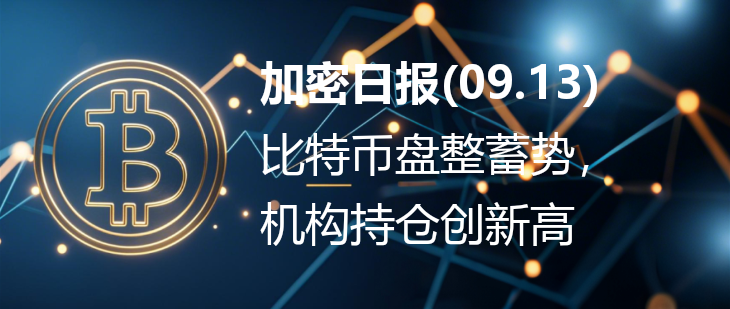
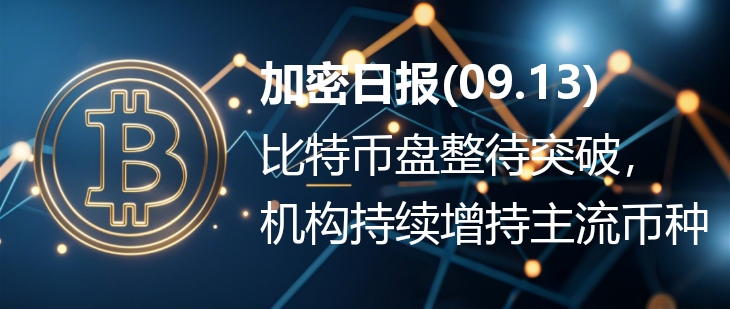
gengxin

Changed region(s): [[0.3616, 0.6408, 0.9945, 0.8155], [0.663, 0.4369, 0.874, 0.5825]]

diff --git a/send_to_weixin/to_gzh_with_pw.py b/send_to_weixin/to_gzh_with_pw.py
@@ -6,10 +6,10 @@ from dotenv import load_dotenv, find_dotenv
 
 try:
     # 当作为模块被导入时
-    from .to_gzh_with_ui import push_feishu_docs_2_wxgzh, open_edit_page_and_get_url, choose_page_cover, choose_other_options_and_preview, wait_icon_dismiss_with_prefix, open_preview_page
+    from .to_gzh_with_ui import push_feishu_docs_2_wxgzh, open_edit_page_and_get_url, choose_page_cover, choose_other_options_and_preview, wait_icon_dismiss_with_prefix, open_preview_page, delete_exit_draft
 except ImportError:
     # 当直接运行时
-    from to_gzh_with_ui import push_feishu_docs_2_wxgzh, open_edit_page_and_get_url, choose_page_cover, choose_other_options_and_preview, wait_icon_dismiss_with_prefix, open_preview_page
+    from to_gzh_with_ui import push_feishu_docs_2_wxgzh, open_edit_page_and_get_url, choose_page_cover, choose_other_options_and_preview, wait_icon_dismiss_with_prefix, open_preview_page, delete_exit_draft
     pass
 
 # 加载环境变量 - 自动查找.env文件
@@ -293,6 +293,7 @@ def send_feishu_docs_to_wxgzh(target_page_title=None, feishu_docs_url=None):
     # 主程序
     with sync_playwright() as p:
         def begin_send(context, feishu_docs_page):
+            # 通过壹伴将文档推送到公众号
             if push_feishu_docs_2_wxgzh():
                 # 切换到已登录的公众号页面，并重置到首页
                 main_page = switch_to_page_and_change_url(context, "公众号", "https://mp.weixin.qq.com/")
@@ -345,15 +346,21 @@ def send_feishu_docs_to_wxgzh(target_page_title=None, feishu_docs_url=None):
         browser = p.chromium.connect_over_cdp("http://127.0.0.1:9222")
         context = browser.contexts[0]
 
-        feishu_docs_page = active_page(context, target_page_title, feishu_docs_url, refresh=True)
-        if feishu_docs_page:
-            return begin_send(context, feishu_docs_page)
-        else:
-            if feishu_docs_url:
-                print(f"打开飞书文档页面: {feishu_docs_url}")
-                feishu_docs_page = open_new_page(context, feishu_docs_url)
+        # 切换到已登录的公众号页面，并重置到首页
+        main_page = switch_to_page_and_change_url(context, "公众号", "https://mp.weixin.qq.com/")
+        if main_page:
+            # 删除已经存在的草稿
+            if delete_exit_draft(main_page):
+                # 打开目标飞书文档
+                feishu_docs_page = active_page(context, target_page_title, feishu_docs_url, refresh=True)
                 if feishu_docs_page:
                     return begin_send(context, feishu_docs_page)
+                else:
+                    if feishu_docs_url:
+                        print(f"打开飞书文档页面: {feishu_docs_url}")
+                        feishu_docs_page = open_new_page(context, feishu_docs_url)
+                        if feishu_docs_page:
+                            return begin_send(context, feishu_docs_page)
 
 if __name__ == "__main__":
     feishu_docs_url = "https://bj058omdwg.feishu.cn/docx/NUi8dqEugoIB4xxIFjWc6uJMnSe"

diff --git a/send_to_weixin/to_gzh_with_ui.py b/send_to_weixin/to_gzh_with_ui.py
@@ -481,6 +481,33 @@ def push_feishu_docs_2_wxgzh():
                             return False
     return False
 
+def delete_exit_draft(feishu_docs_page=None):
+    # 打开微信文章编辑页面，并获得页面链接
+    if click_icon_with_prefix("wx_content_management"):
+        if click_icon_with_prefix("wx_content_draft"): # 点击后，页面的URL改变了
+            time.sleep(5)
+            feishu_docs_page.title() # 通过一个固定不变的页面来更新context内容
+            if hover_icon_with_prefix("wx_content_draft_btc_title"):
+                if click_icon_with_prefix("wx_content_delete"):
+                    if click_icon_with_prefix("wx_edit_common_deletebtn"):
+                        print("删除了已有的草稿")
+                        return True
+                    else:
+                        print("删除草稿失败")
+                        return False
+                else:
+                    print("删除草稿失败")
+                    return False
+            else:
+                print("没有找到草稿，不需要删除")
+                return True
+        else:
+            print("没有找到【草稿箱】菜单")
+            return False
+    else:
+        print("没有【内容管理】菜单")
+        return False
+
 def open_edit_page_and_get_url(feishu_docs_page=None):
     # 打开微信文章编辑页面，并获得页面链接
     if click_icon_with_prefix("wx_content_management"):
@@ -556,7 +583,7 @@ def choose_other_options_and_preview():
                 
 def open_preview_page(page = None):
     page.bring_to_front()
-    if click_icon_with_prefix("wx_content_draft_btc_zhoubao"):
+    if click_icon_with_prefix("wx_content_draft_btc_title"):
         print("打开了文章编辑页面")
         if LOCAL_DEV:
             sleep(8) # 至少进入到了新页面中

diff --git a/latest_summary.md b/latest_summary.md
@@ -1,31 +1,28 @@
-### 一、比特币价格走势及技术分析  
+### 一、比特币价格走势与技术分析  
 **总结**：  
-1. 比特币价格在114,834-116,312美元区间波动，接近115,000美元，处于盘整阶段，关键阻力位为114,000-116,000美元，支撑位在108,000美元附近，若突破阻力可能涨向123,000美元。  
-2. 技术指标显示短期存在超买（随机振荡器），长期移动平均线支撑稳固，周线图出现倒头肩形态，预示长期目标或达170,000-360,000美元。  
-3. 市场受美联储降息预期、ETF资金流动等宏观因素影响，需关注突破116,000美元的确认信号，否则可能维持区间波动。  
-
+1. 比特币价格近期在114,000美元至116,000美元区间盘整，技术指标显示短期存在超买（如随机振荡器Stoch接近93），但长期支撑稳固（如50日、100日、200日均线均呈看涨趋势），周线图出现倒头肩形态，若突破可能指向123,000美元至170,000美元目标。  
+2. 4小时图显示比特币在116,358美元附近遇阻，需确认突破以延续涨势，若未能突破，可能回调至113,500美元至114,000美元支撑位；1小时图中，114,500美元至115,000美元为日内关键反应区。  
+3. 市场关注比特币能否在强劲交易量下突破116,000美元阻力位，若突破可能冲击124,000美元，反之可能维持区间波动，需警惕美国通胀数据、ETF资金流动等宏观因素影响。  
 **参考**：  
 - [技术指标暗示关键突破水平，比特币在115 万美元附近盘整 - FinanceFeeds](https://financefeeds.com/zh-CN/%E6%AF%94%E7%89%B9%E5%B8%81%E5%9C%A8-115-%E9%99%84%E8%BF%91%E7%9B%98%E6%95%B4%EF%BC%8C%E6%8A%80%E6%9C%AF%E6%8C%87%E6%A0%87%E6%9A%97%E7%A4%BA%E5%85%B3%E9%94%AE%E7%AA%81%E7%A0%B4%E6%B0%B4%E5%B9%B3/)  
 - [比特币上涨，股票创下历史新高 - Bitcoin.com News](https://news.bitcoin.com/zh/bi-te-bi-shang-zhang-gu-piao-chuang-xia-li-shi-xin-gao/)  
-- [比特币价格反弹突破11.6万！以太币同步冲高，未来继续涨？ - Bitcoin.com News](https://cn.investing.com/news/cryptocurrency-news/article-2982735)  
+- [比特币价格反弹突破11.6万！以太币同步冲高，未来继续涨？ - Investing.com](https://cn.investing.com/news/cryptocurrency-news/article-2982735)  
 
 
-### 二、比特币机构持仓与市场采用  
+### 二、比特币机构资金与市场情绪  
 **总结**：  
-1. 比特币“鲨鱼”群体（大持有者）持仓量达365万枚，创历史新高，过去30天累计增持93,000枚，显示机构对BTC的长期信心增强。  
-2. 金融机构加速入场，整合数字资产到运营中，呼应中本聪“点对点电子现金”愿景，减少对传统金融中介的依赖，可能推动市场稳定性和价格升值。  
-3. 机构资金流入或引发类似2024年初现货ETF批准后的反弹，跨市场机会显现，需关注美联储降息等宏观因素对加密资产的影响。  
-
+1. 比特币“鲨鱼”群体（大持有者）持仓量达365万枚历史新高，过去30天累计增持约93,000枚，显示机构对长期价值的信心增强，资金流向大型加密资产趋势明显。  
+2. 金融机构加速入场加密领域，呼应中本聪“点对点电子现金”愿景，机构资金流入推动市场流动性和价格，可能引发类似2024年初现货ETF批准后的反弹，市场对美联储降息预期（9月17日FOMC会议降息概率高）进一步强化乐观情绪。  
+3. 数字资产财库（DAT）周期进入“玩家对弈”阶段，资金加速流向BTC、ETH等大型加密资产，小型DAT或进入整合期，截至9月10日，DAT累计持有超100万枚BTC（约1100亿美元）、490万枚ETH（约213亿美元）。  
 **参考**：  
 - [比特币“鲨鱼”群体持仓量创365万枚历史新高 - Binance](https://www.binance.com/cn/square/post/29588094722217)  
 - [BTC机构采用2025：@alice_und_bob称金融机构正加速入场并引用中本聪P2P愿景 - Blockchain.news](https://blockchain.news/zh/flashnews/btc-institutional-adoption-2025-alice-und-bob-highlights-financial-institutions-onboarding-and-cites-satoshi-s-peer-to-peer-vision-zh)  
 
 
-### 三、其他主流加密货币动态  
+### 三、其他加密货币动态  
 **总结**：  
-1. 以太坊（ETH）价格连续第四日上涨，突破4,500美元，受美联储降息预期、AI热潮及DAT周期“玩家对弈”阶段推动，DAT累计持有490万枚ETH。  
-2. Solana（SOL）受Galaxy从Binance、Coinbase收购逾7亿美元SOL推动，价格上涨，Galaxy的收购行为增强SOL市场流动性和价格上行动力。  
-
+1. 以太坊（ETH）价格在4,200美元至4,500美元区间盘整，4,500美元为关键阻力位，若突破可能冲击5,000美元，下行支撑在4,300美元至4,000美元；链上数据显示机构和鲸鱼投资者增持ETH，为看涨观点提供支撑。  
+2. Galaxy Digital从Binance、Coinbase收购逾7亿美元的Solana（SOL），推动Solana价格上涨，显示机构对Solana的兴趣增加，市场关注其基础设施和生态发展对价格的影响。  
 **参考**：  
-- [比特币价格反弹突破11.6万！以太币同步冲高，未来继续涨？ - Bitcoin.com News](https://cn.investing.com/news/cryptocurrency-news/article-2982735)  
+- [比特币价格反弹突破11.6万！以太币同步冲高，请未来继续涨？ - Investing.com](https://cn.investing.com/news/cryptocurrency-news/article-2982735)  
 - [Solana（SOL）价格新闻：Galaxy 从Binance、Coinbase 收购逾7 亿美元的SOL - CoinDesk](https://www.coindesk.com/zh/markets/2025/09/12/solana-surges-as-galaxy-scoops-up-over-usd700m-tokens-from-exchanges)

diff --git a/latest_summary_cleaned.md b/latest_summary_cleaned.md
@@ -1,13 +1,11 @@
-### 一、比特币价格走势及技术分析  
-1. 比特币价格在114,834-116,312美元区间波动，接近115,000美元，处于盘整阶段，关键阻力位为114,000-116,000美元，支撑位在108,000美元附近，若突破阻力可能涨向123,000美元。  
-2. 技术指标显示短期存在超买（随机振荡器），长期移动平均线支撑稳固，周线图出现倒头肩形态，预示长期目标或达170,000-360,000美元。  
-3. 市场受美联储降息预期、ETF资金流动等宏观因素影响，需关注突破116,000美元的确认信号，否则可能维持区间波动。  
-
-### 二、比特币机构持仓与市场采用  
-1. 比特币“鲨鱼”群体（大持有者）持仓量达365万枚，创历史新高，过去30天累计增持93,000枚，显示机构对BTC的长期信心增强。  
-2. 金融机构加速入场，整合数字资产到运营中，呼应中本聪“点对点电子现金”愿景，减少对传统金融中介的依赖，可能推动市场稳定性和价格升值。  
-3. 机构资金流入或引发类似2024年初现货ETF批准后的反弹，跨市场机会显现，需关注美联储降息等宏观因素对加密资产的影响。  
-
-### 三、其他主流加密货币动态  
-1. 以太坊（ETH）价格连续第四日上涨，突破4,500美元，受美联储降息预期、AI热潮及DAT周期“玩家对弈”阶段推动，DAT累计持有490万枚ETH。  
-2. Solana（SOL）受Galaxy从Binance、Coinbase收购逾7亿美元SOL推动，价格上涨，Galaxy的收购行为增强SOL市场流动性和价格上行动力。  
+### 一、比特币价格走势与技术分析  
+1. 比特币价格近期在114,000美元至116,000美元区间盘整，技术指标显示短期存在超买（如随机振荡器Stoch接近93），但长期支撑稳固（如50日、100日、200日均线均呈看涨趋势），周线图出现倒头肩形态，若突破可能指向123,000美元至170,000美元目标。  
+2. 4小时图显示比特币在116,358美元附近遇阻，需确认突破以延续涨势，若未能突破，可能回调至113,500美元至114,000美元支撑位；1小时图中，114,500美元至115,000美元为日内关键反应区。  
+3. 市场关注比特币能否在强劲交易量下突破116,000美元阻力位，若突破可能冲击124,000美元，反之可能维持区间波动，需警惕美国通胀数据、ETF资金流动等宏观因素影响。  
+### 二、比特币机构资金与市场情绪  
+1. 比特币“鲨鱼”群体（大持有者）持仓量达365万枚历史新高，过去30天累计增持约93,000枚，显示机构对长期价值的信心增强，资金流向大型加密资产趋势明显。  
+2. 金融机构加速入场加密领域，呼应中本聪“点对点电子现金”愿景，机构资金流入推动市场流动性和价格，可能引发类似2024年初现货ETF批准后的反弹，市场对美联储降息预期（9月17日FOMC会议降息概率高）进一步强化乐观情绪。  
+3. 数字资产财库（DAT）周期进入“玩家对弈”阶段，资金加速流向BTC、ETH等大型加密资产，小型DAT或进入整合期，截至9月10日，DAT累计持有超100万枚BTC（约1100亿美元）、490万枚ETH（约213亿美元）。  
+### 三、其他加密货币动态  
+1. 以太坊（ETH）价格在4,200美元至4,500美元区间盘整，4,500美元为关键阻力位，若突破可能冲击5,000美元，下行支撑在4,300美元至4,000美元；链上数据显示机构和鲸鱼投资者增持ETH，为看涨观点提供支撑。  
+2. Galaxy Digital从Binance、Coinbase收购逾7亿美元的Solana（SOL），推动Solana价格上涨，显示机构对Solana的兴趣增加，市场关注其基础设施和生态发展对价格的影响。  

diff --git a/test/llm-ali/title_and_summary.md b/test/llm-ali/title_and_summary.md
@@ -1,7 +1,7 @@
-# 【加密货币周报：比特币盘整蓄势，机构持仓创新高】
+# 【加密货币周报：比特币盘整待突破，机构持续增持主流币种】
 
-1. 比特币价格在115,000美元附近窄幅震荡，技术面显示短期超买但长期均线支撑稳固，若突破116,000美元阻力或上探123,000美元，长期形态指向更高目标。
+1. 比特币价格在114,000至116,000美元区间震荡，技术指标显示短期超买，但长期均线支撑良好，关键阻力位为116,000美元，突破后可能上探123,000美元以上。
 
-2. 大型持有者（“鲨鱼”）对比特币的持仓量达365万枚历史新高，近一个月持续增持，反映机构对BTC的长期信心增强，叠加金融机构加速采用，可能推动市场进一步上涨。
+2. 比特币“鲨鱼”地址持仓达365万枚历史新高，近30天增持超9万枚，机构资金持续流入，市场对美联储降息预期增强，推动BTC和ETH等主流资产需求上升。
 
-3. 以太坊连续四日上涨并突破4,500美元，受降息预期与AI、DAT周期等因素驱动；Solana因Galaxy从主流交易所收购逾7亿美元SOL，流动性改善带动价格上涨。
+3. 以太坊在4,200至4,500美元区间整理，4,500美元为关键阻力；Solana因Galaxy Digital收购超7亿美元SOL代币而上涨，显示机构对其生态前景的关注度提升。
